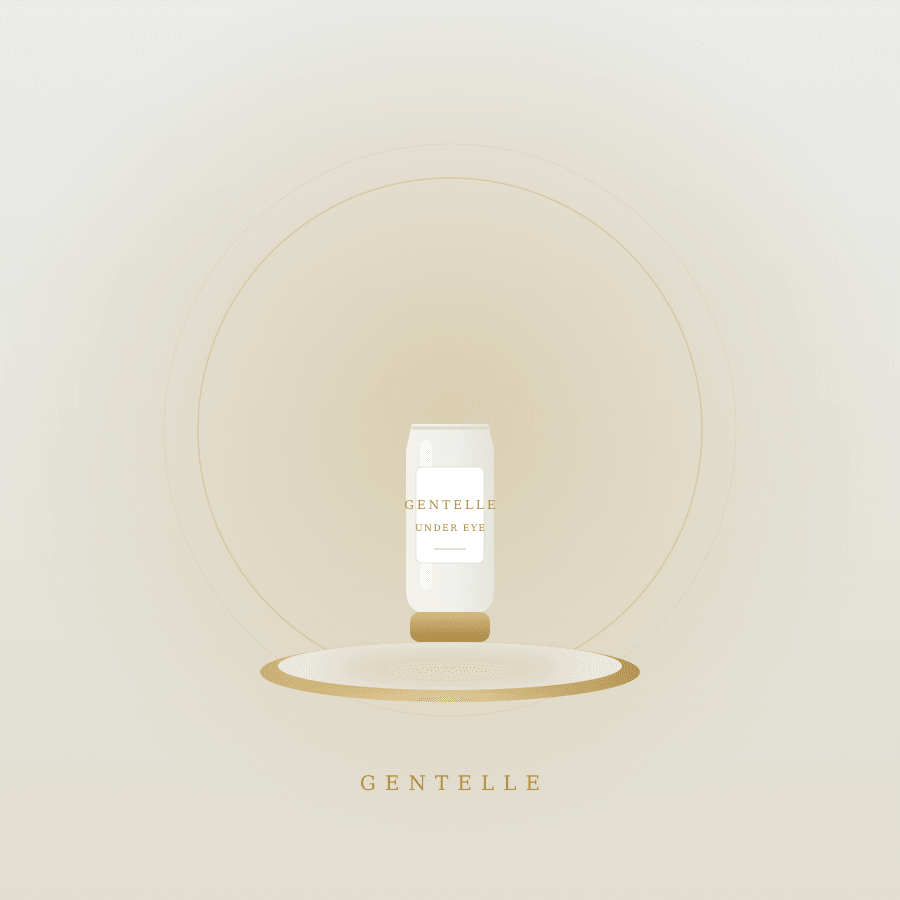
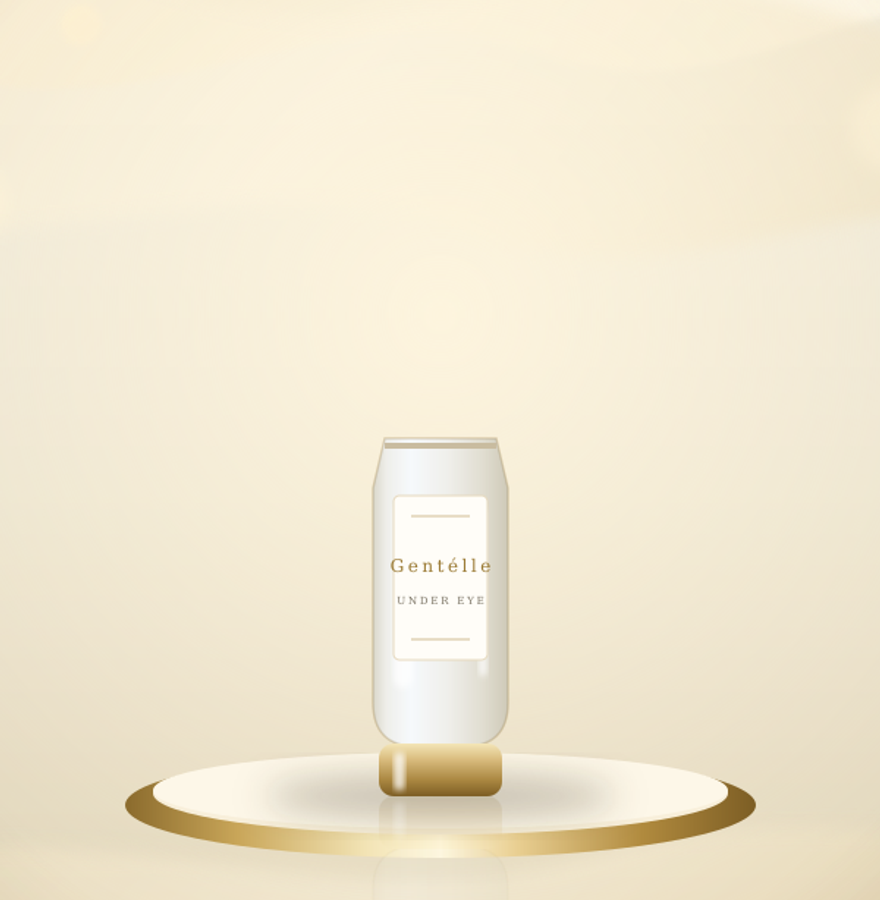
Photographic-style product renders and warmer champagne palette
- Rebuild the coming-soon renders with silk drapery backdrops, bokeh,
  metallic gold pedestals, glass highlights and reflections, cropped
  tight so products fill the card frame
- Warm the surface palette (canvas, sand, lines) toward champagne gold
  to sit naturally next to the product photography
- Coming Soon badge switches from dark to a gold gradient

Claude-Session: https://claude.ai/code/session_01X4CPyVEQh3CS3wpJeURn4W

diff --git a/app/globals.css b/app/globals.css
@@ -10,10 +10,10 @@
   --spacing: 0.25rem;
 
   /* Surfaces */
-  --color-canvas: #FAF8F4;
+  --color-canvas: #FBF7EE;
   --color-surface: #FFFFFF;
-  --color-sand: #F0EAE0;
-  --color-sand-deep: #E6DDD0;
+  --color-sand: #F4ECDB;
+  --color-sand-deep: #EBDFC8;
 
   /* Brand greens */
   --color-brand: #2A4335;
@@ -36,8 +36,8 @@
   --color-faint: #98938A;
 
   /* Lines */
-  --color-line: #E5DDD0;
-  --color-line-soft: #EDE6DA;
+  --color-line: #E8DDC7;
+  --color-line-soft: #F0E7D5;
 
   /* Feedback */
   --color-success: #3B7550;

diff --git a/components/product/ProductCard.tsx b/components/product/ProductCard.tsx
@@ -76,7 +76,7 @@ export default function ProductCard({
           <span
             className="absolute left-3 top-3 rounded-full text-white"
             style={{
-              background: "rgba(26,25,23,0.72)",
+              background: "linear-gradient(135deg, #C6A55F 0%, #A98640 100%)",
               backdropFilter: "blur(8px)",
               fontSize: "0.65rem",
               letterSpacing: "0.18em",
